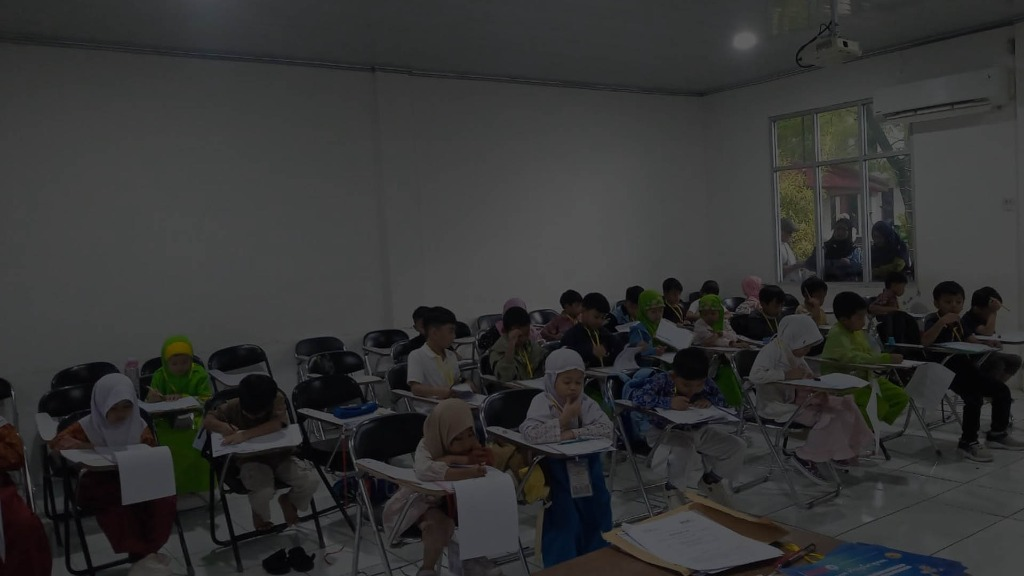
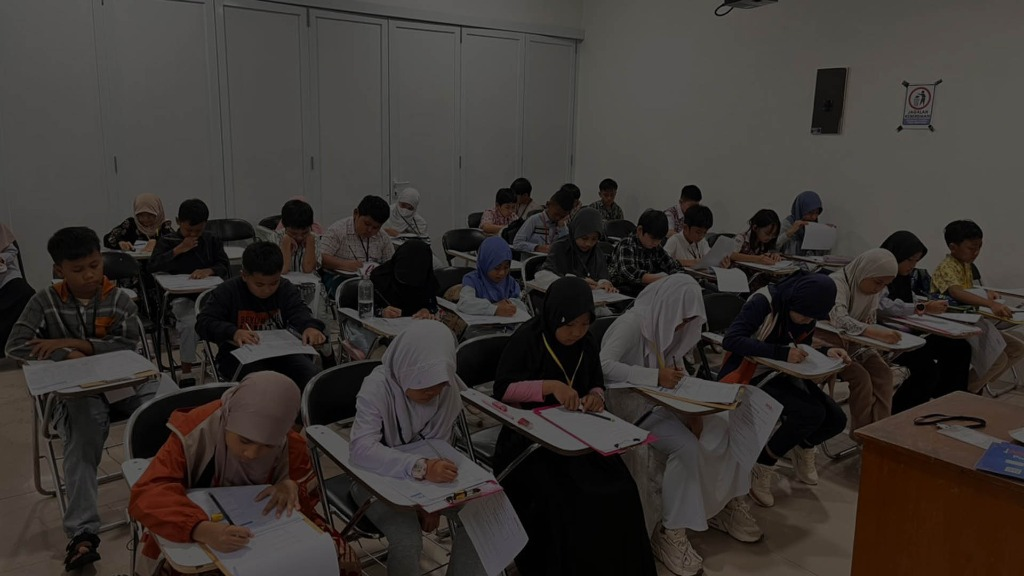
Update dynamic slideshow header with new classroom images and clean up unused slides

diff --git a/resources/views/home.blade.php b/resources/views/home.blade.php
@@ -9,11 +9,9 @@
         <!-- Slide 1 -->
         <div class="absolute inset-0 bg-cover bg-center transition-opacity duration-1000 opacity-100 hero-slide" style="background-image: linear-gradient(rgba(30, 64, 175, 0.8), rgba(236, 72, 153, 0.2)), url('{{ asset('images/slide1.jpg') }}')"></div>
         <!-- Slide 2 -->
-        <div class="absolute inset-0 bg-cover bg-center transition-opacity duration-1000 opacity-0 hero-slide" style="background-image: linear-gradient(rgba(30, 64, 175, 0.8), rgba(236, 72, 153, 0.2)), url('{{ asset('images/slide2.png') }}')"></div>
+        <div class="absolute inset-0 bg-cover bg-center transition-opacity duration-1000 opacity-0 hero-slide" style="background-image: linear-gradient(rgba(30, 64, 175, 0.8), rgba(236, 72, 153, 0.2)), url('{{ asset('images/slide2.jpg') }}')"></div>
         <!-- Slide 3 -->
-        <div class="absolute inset-0 bg-cover bg-center transition-opacity duration-1000 opacity-0 hero-slide" style="background-image: linear-gradient(rgba(30, 64, 175, 0.8), rgba(236, 72, 153, 0.2)), url('{{ asset('images/slide3.png') }}')"></div>
-        <!-- Slide 4 -->
-        <div class="absolute inset-0 bg-cover bg-center transition-opacity duration-1000 opacity-0 hero-slide" style="background-image: linear-gradient(rgba(30, 64, 175, 0.8), rgba(236, 72, 153, 0.2)), url('{{ asset('images/slide4.png') }}')"></div>
+        <div class="absolute inset-0 bg-cover bg-center transition-opacity duration-1000 opacity-0 hero-slide" style="background-image: linear-gradient(rgba(30, 64, 175, 0.8), rgba(236, 72, 153, 0.2)), url('{{ asset('images/slide3.jpg') }}')"></div>
         <!-- Shadow overlay to create depth and contrast, blending beautifully with dark mode -->
         <div class="absolute inset-0 bg-gradient-to-b from-black/50 via-transparent to-gray-50/90 dark:to-gray-900 pointer-events-none transition-colors duration-300"></div>
     </div>
